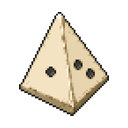
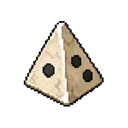
feat(items): cut the four-sided die from the newer sheet
- assets/items/dice.png now comes from assets/items/sources/sheet-3.png,
  drawn in the same style and at the same scale as the other items; the
  separate d4 image is removed.
- sources/README.md fixes sheet-2.png as the only reference image, so
  sheets are never generated from generated sheets.
- cut_item_icons.py can cut only the named items of a sheet.

Claude-Session: https://claude.ai/code/session_01UjpvLCvVhCwJrZ5EHwNyVQ

Changed region(s): [[0.125, 0.0938, 0.875, 0.9062]]

diff --git a/scripts/cut_item_icons.py b/scripts/cut_item_icons.py
@@ -8,11 +8,15 @@ square (the corners are transparent).
 
     uv run --with pillow --with numpy python scripts/cut_item_icons.py assets/items/sources/sheet-2.png assets/items
 
+Naming items after the output directory writes only those icons, e.g. one item from a newer sheet:
+
+    uv run --with pillow --with numpy python scripts/cut_item_icons.py assets/items/sources/sheet-3.png assets/items dice
+
 A single regenerated item (one item on a white background) replaces one icon instead; it is scaled so
 that the longer side of the item matches the others (about ITEM_LONG_SIDE of the 128 pixels):
 
     uv run --with pillow --with numpy python scripts/cut_item_icons.py \
-        --single dice assets/items/sources/dice-2.png assets/items
+        --single dice <image of one item> assets/items
 
 A sheet drawn as pixel art (each item on an ART_SIZE x ART_SIZE grid, scaled up by an integer factor)
 is read back pixel for pixel instead, so the icons stay crisp:
@@ -94,8 +98,8 @@ def rounded_mask() -> Image.Image:
     return mask.resize((ICON_SIZE, ICON_SIZE), Image.Resampling.LANCZOS)
 
 
-def cut(sheet_path: Path, output_dir: Path) -> list[Placement]:
-    """Write one icon per cell as <name>.png and return how each item was moved."""
+def cut(sheet_path: Path, output_dir: Path, only: set[str] | None = None) -> list[Placement]:
+    """Write one icon per cell (or only the named ones) as <name>.png and return how each item was moved."""
     pixels = np.asarray(Image.open(sheet_path).convert("RGB"))
     cell = pixels.shape[0] // GRID
     foreground = pixels.min(axis=2) <= WHITE_THRESHOLD
@@ -111,6 +115,8 @@ def cut(sheet_path: Path, output_dir: Path) -> list[Placement]:
     mask = rounded_mask()
     placements = []
     for index, name in enumerate(CELLS):
+        if only and name not in only:
+            continue
         row, column = divmod(index, GRID)
         mine = np.isin(labels, [label for label, owner in owners.items() if owner == index])
         selected = np.repeat(np.repeat(mine, BLOCK, axis=0), BLOCK, axis=1) & foreground[: cell * GRID, : cell * GRID]
@@ -219,5 +225,5 @@ if __name__ == "__main__":
     elif sys.argv[1] == "--single":
         cut_single(Path(sys.argv[3]), Path(sys.argv[4]), sys.argv[2])
     else:
-        for placement in cut(Path(sys.argv[1]), Path(sys.argv[2])):
+        for placement in cut(Path(sys.argv[1]), Path(sys.argv[2]), set(sys.argv[3:]) or None):
             print(placement)

diff --git a/assets/items/sources/README.md b/assets/items/sources/README.md
@@ -1,0 +1,10 @@
+# Item image sources
+
+- `sheet-2.png` is the one and only style reference. Pass exactly this file as the reference image every time a
+  new sheet is generated, and never replace it with a newer sheet: generating from a generated image again and
+  again degrades the quality.
+- `sheet-3.png` was generated from `sheet-2.png`. Only `dice` (the four-sided die) is cut from it; every other
+  icon still comes from `sheet-2.png`.
+
+Cut the icons with `scripts/cut_item_icons.py` (see its docstring); name items after the output directory to cut
+only those.
